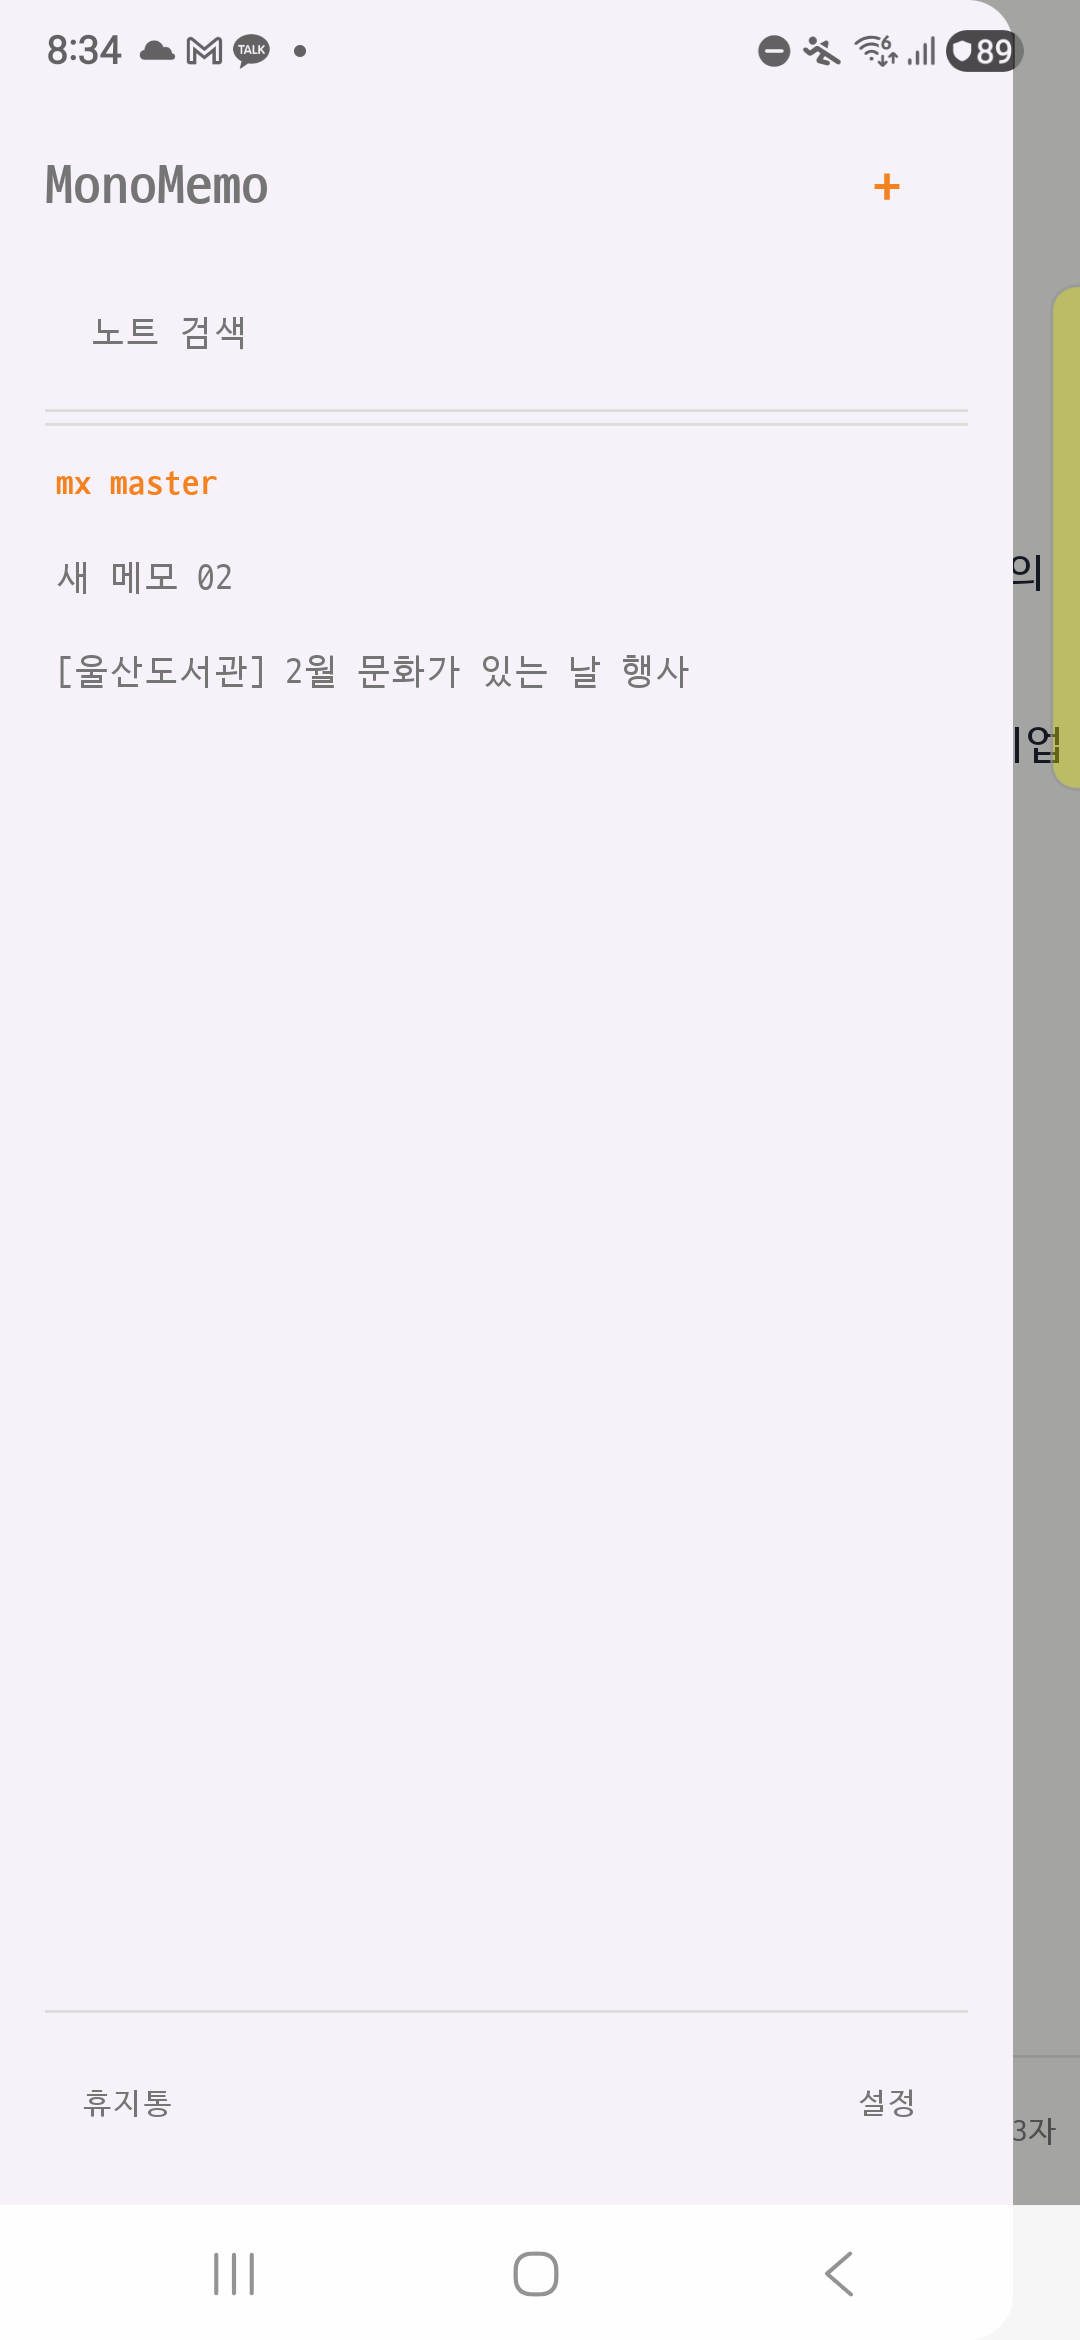
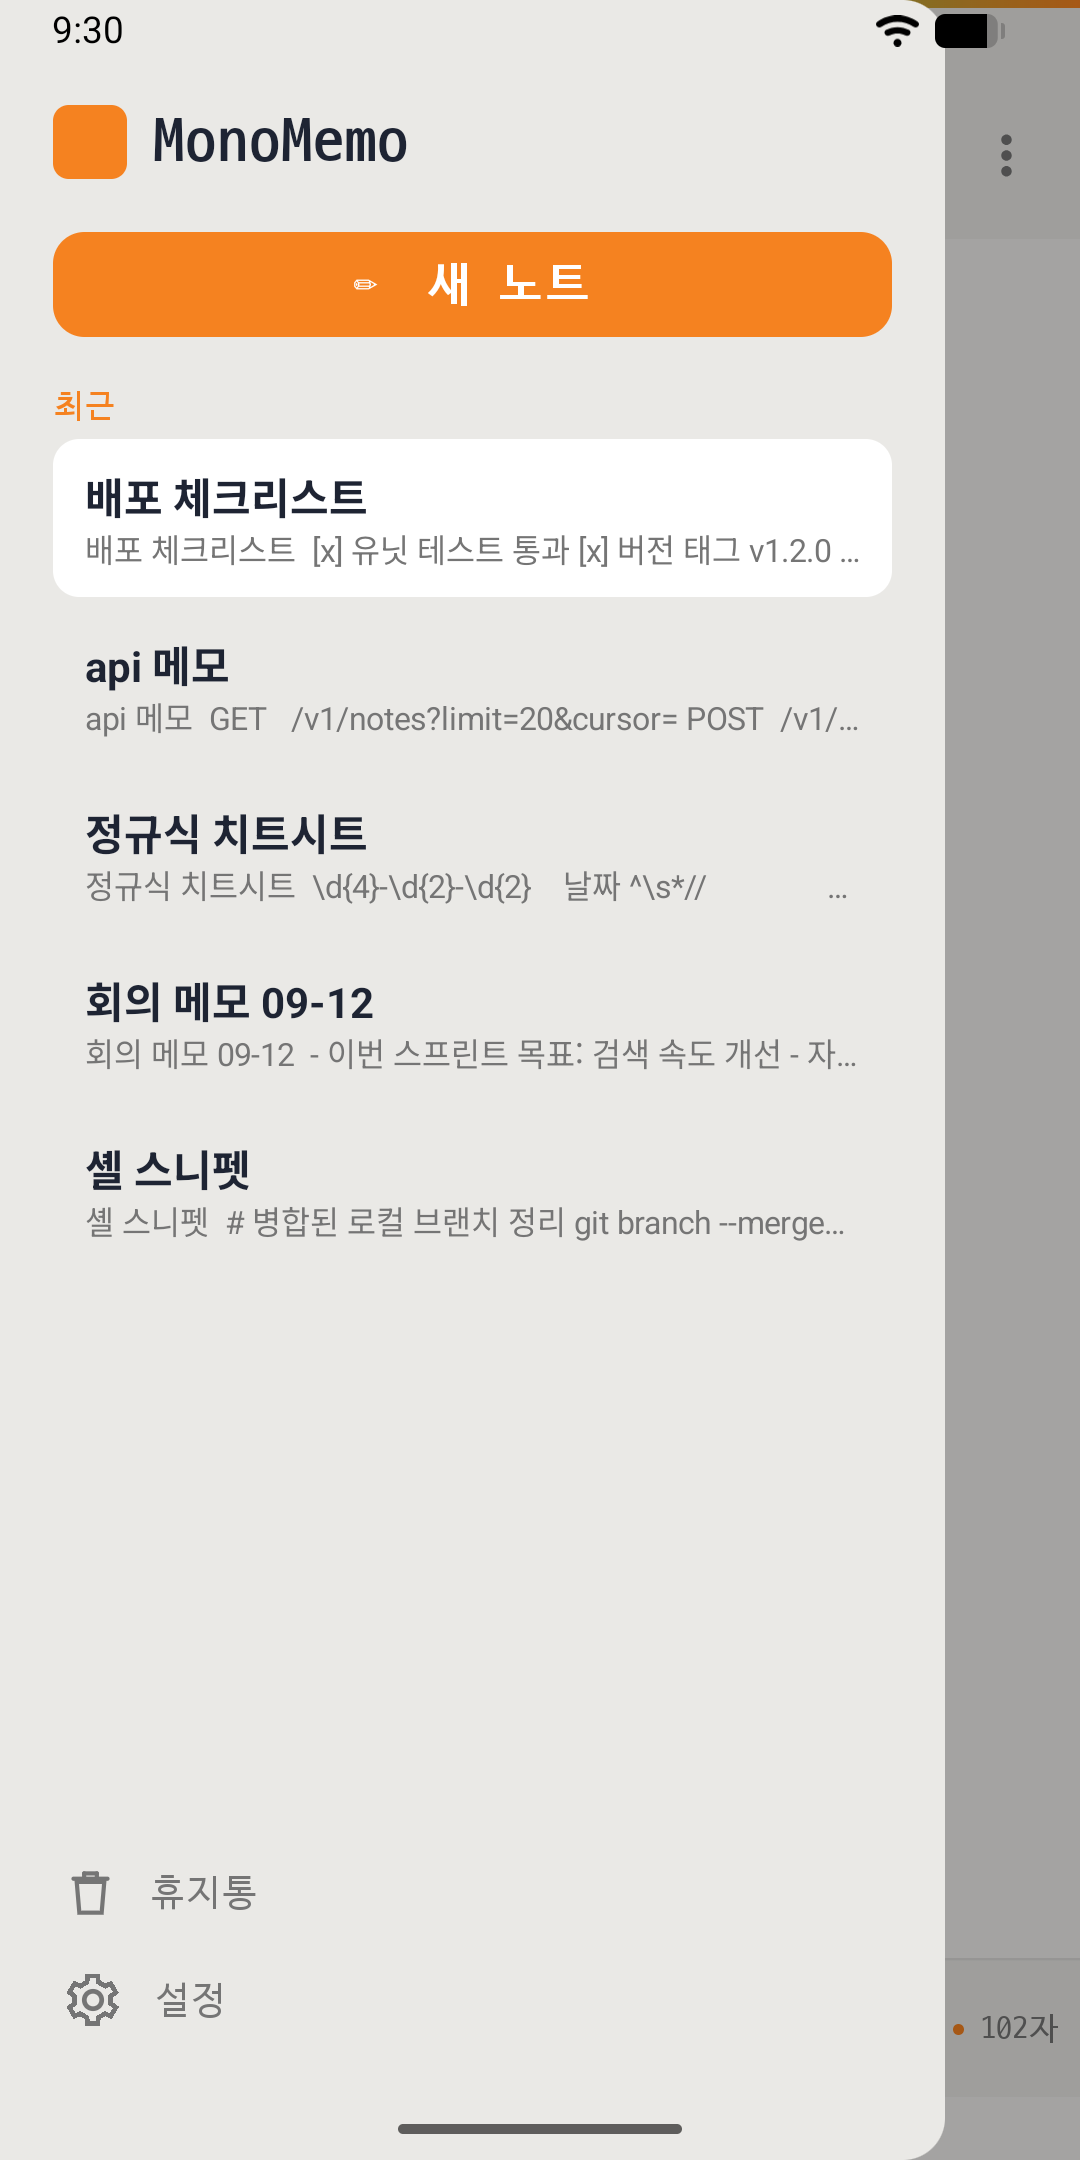
스토어 스크린샷 교체 및 재생성 스크립트 추가
- 개인 메모/AI 프롬프트 등 부적절한 데모 콘텐츠를 정책 안전한
  샘플 노트로 교체 (배포 체크리스트, api 메모, 정규식 치트시트 등)
- Play 스토어 휴대전화 스크린샷 비율 요건(2:1 이하)에 맞춰
  1080x2160으로 재촬영
- 재생성 절차를 tools/README.md, tools/seed-screenshots.sql로 문서화
- screenshots/ 디렉터리를 .gitignore 예외 처리하여 추적 유지

Claude-Session: https://claude.ai/code/session_01GHTdhSULVayE8ivdq993MV

diff --git a/tools/README.md b/tools/README.md
@@ -1,0 +1,55 @@
+# tools/
+
+## 스토어 스크린샷 재생성
+
+`screenshots/*.png`는 Play 스토어 등록용 이미지다. 아래 절차로 다시 만든다.
+
+### 1. 디버그 빌드 설치 + 데모 데이터 시드
+
+```bash
+./gradlew :app:installDebug
+adb shell am start -n com.monomemo.app/.MainActivity   # 최초 실행 → Room DB 생성
+adb shell am force-stop com.monomemo.app
+```
+
+`sqlite3`가 기기에 없고 프로덕션 이미지라 `adb root`가 안 되므로,
+앱 샌드박스의 DB를 `run-as`로 꺼내 로컬에서 수정 후 되돌린다.
+
+```bash
+adb exec-out run-as com.monomemo.app cat databases/monomemo.db > monomemo.db
+python - <<'PY'
+import sqlite3
+c = sqlite3.connect("monomemo.db")
+c.executescript(open("tools/seed-screenshots.sql", encoding="utf-8").read())
+c.commit(); c.execute("PRAGMA wal_checkpoint(TRUNCATE)"); c.commit(); c.close()
+PY
+adb push monomemo.db /data/local/tmp/seed.db
+adb shell "run-as com.monomemo.app sh -c 'cp /data/local/tmp/seed.db /data/data/com.monomemo.app/databases/monomemo.db && rm -f /data/data/com.monomemo.app/databases/monomemo.db-wal /data/data/com.monomemo.app/databases/monomemo.db-shm'"
+adb shell rm /data/local/tmp/seed.db
+```
+
+### 2. 상태바 정리 (데모 모드)
+
+```bash
+adb shell settings put global sysui_demo_allowed 1
+adb shell am broadcast -a com.android.systemui.demo -e command enter
+adb shell am broadcast -a com.android.systemui.demo -e command clock -e hhmm 0930
+adb shell am broadcast -a com.android.systemui.demo -e command battery -e level 82 -e plugged false
+adb shell am broadcast -a com.android.systemui.demo -e command network -e wifi show -e level 4 -e fully true
+adb shell am broadcast -a com.android.systemui.demo -e command network -e mobile hide
+adb shell am broadcast -a com.android.systemui.demo -e command notifications -e visible false
+# 끝나면: adb shell am broadcast -a com.android.systemui.demo -e command exit
+```
+
+### 3. 캡처
+
+- `editor.png` — 앱 실행 시 열리는 노트(배포 체크리스트). 설정에서 줄 번호 ON.
+- `drawer.png` — 햄버거 메뉴로 서랍 열기.
+- `settings.png` — 서랍 → 설정.
+- `editor_dark.png` / `settings_dark.png` — `adb shell cmd uimode night yes` 후 동일 화면.
+
+```bash
+adb exec-out screencap -p > screenshots/editor.png   # Windows PowerShell은 cmd /c 로 리다이렉트할 것
+```
+
+> 주의: 시드 콘텐츠에는 실명·위치·브랜드·금융/의료/정치 소재를 넣지 않는다.
